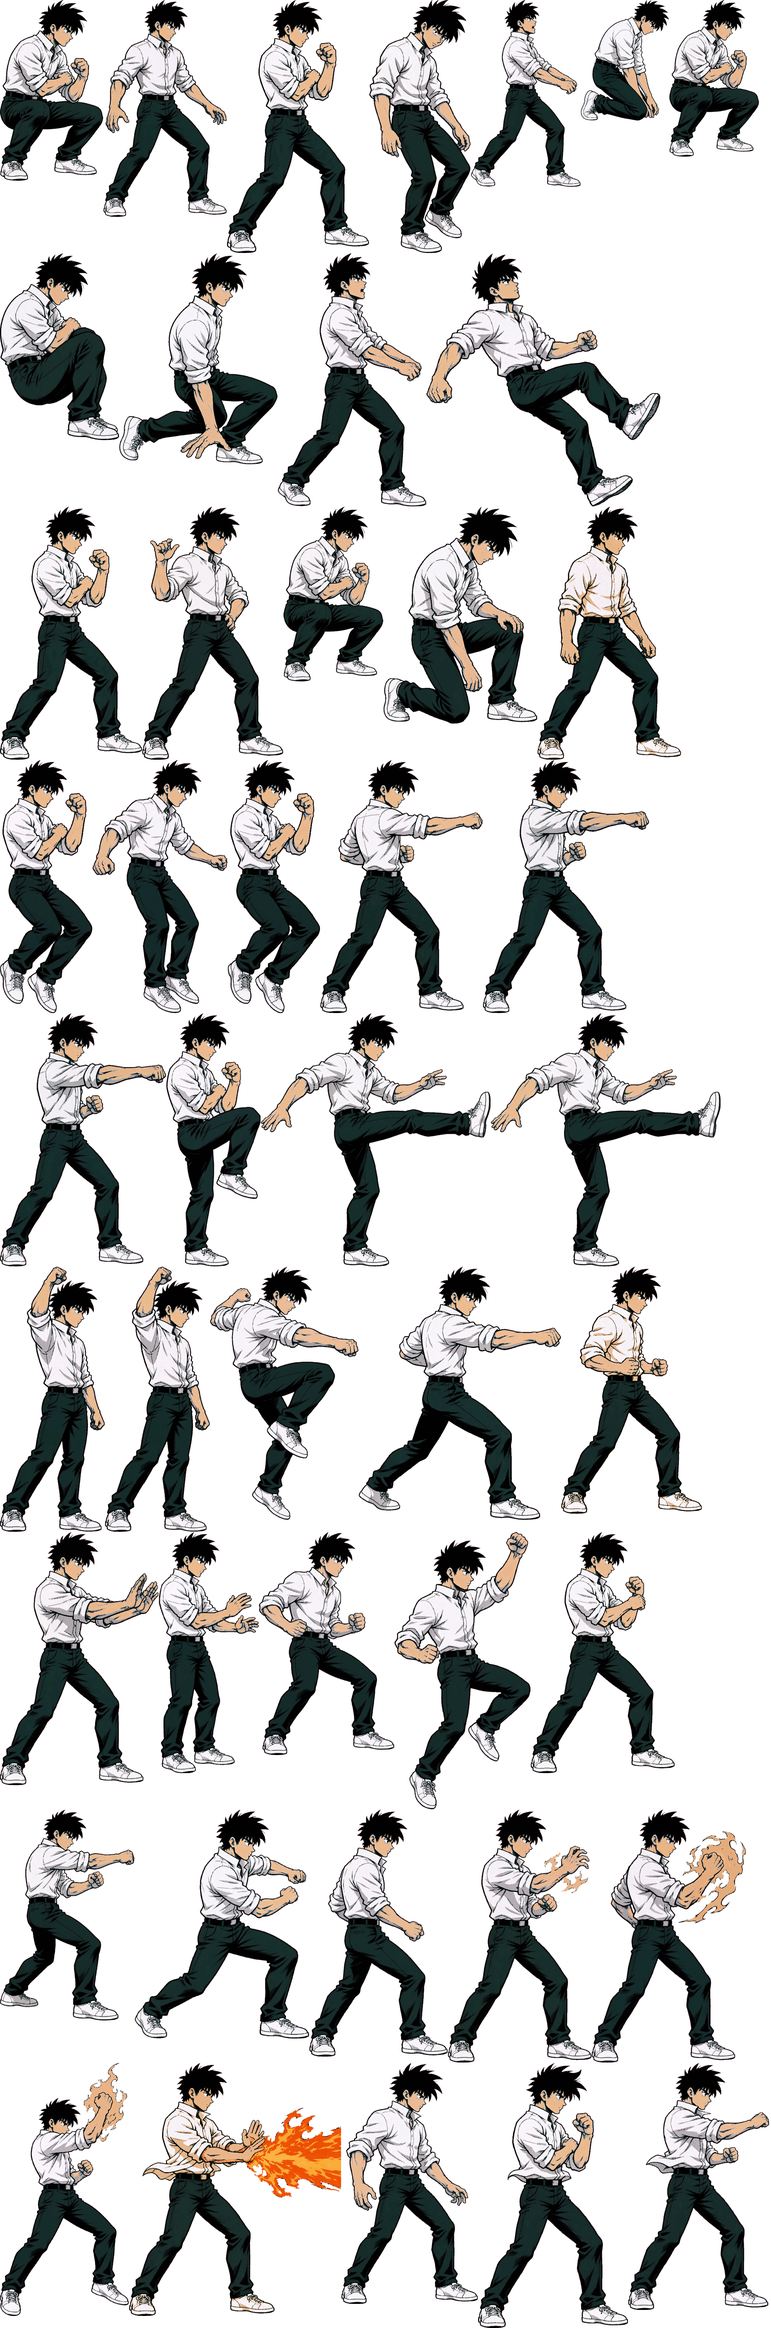
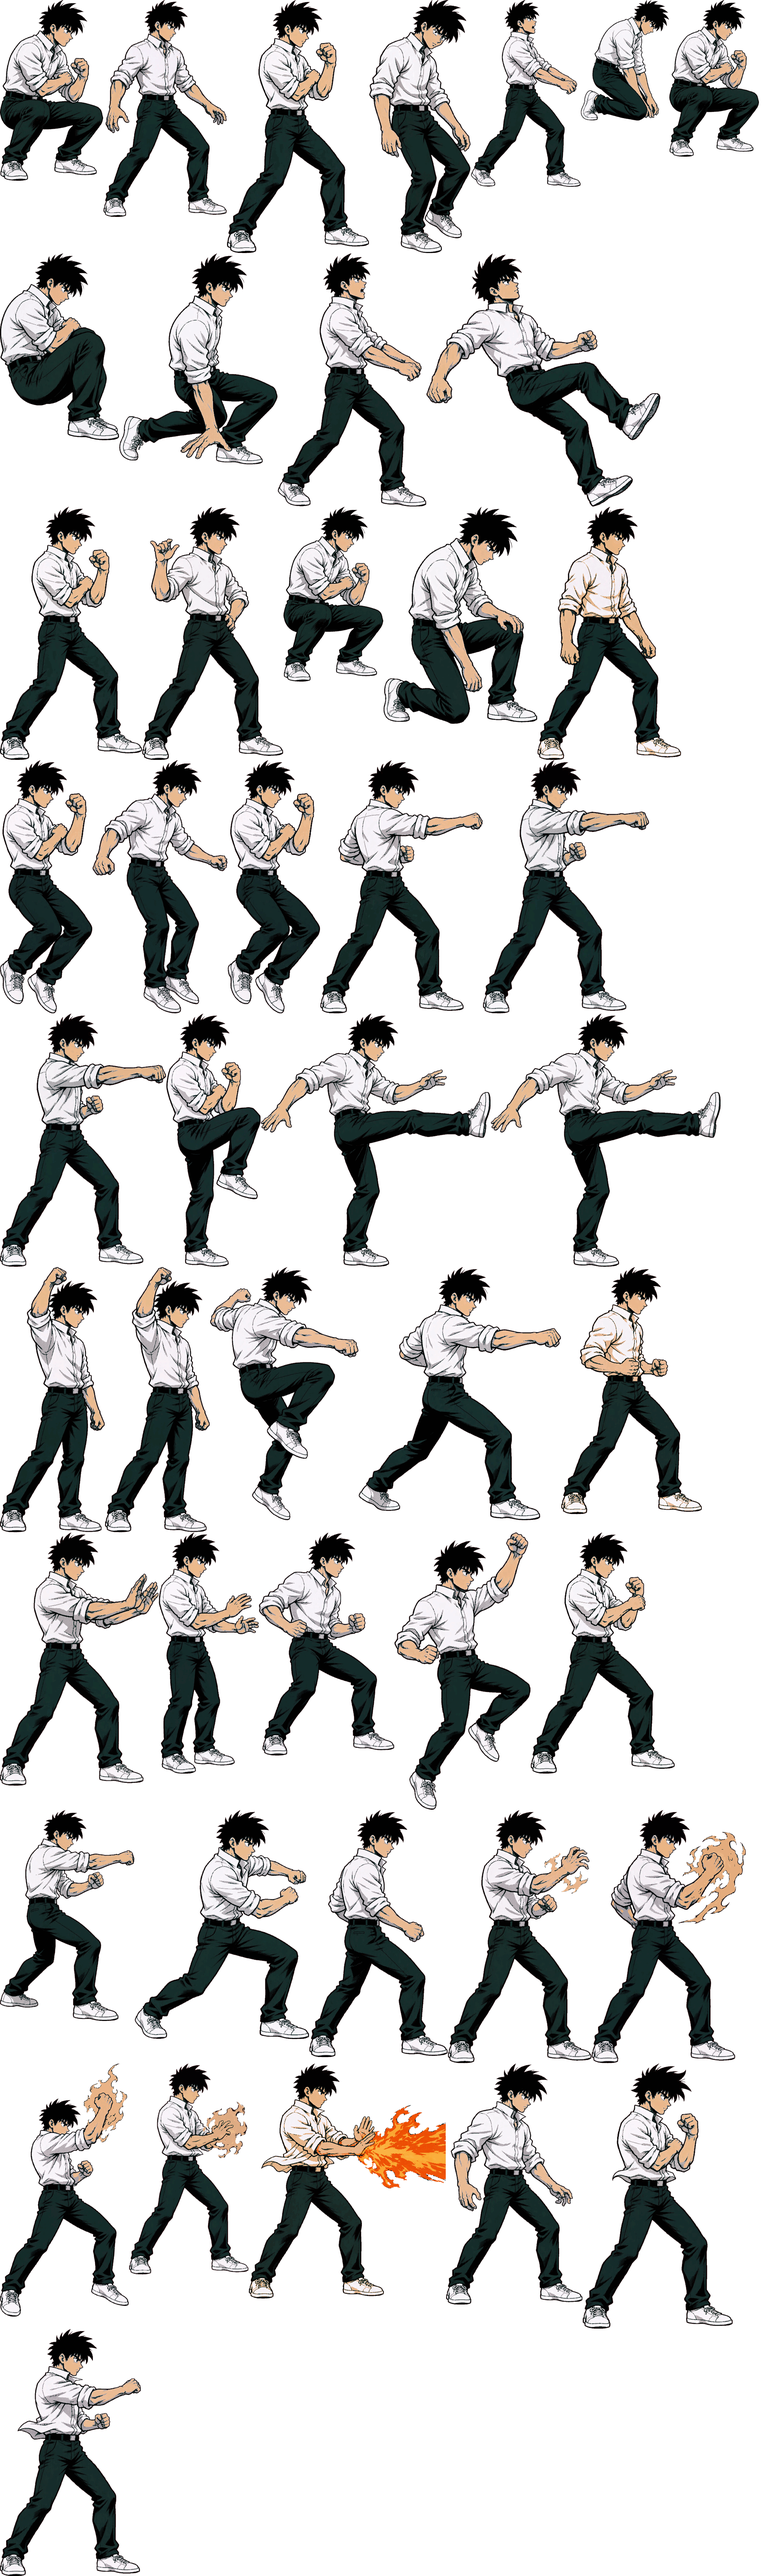
批次 20261027-0948 · [T272] 专属超必杀补起手帧（样板：草薙京）
发现的落差：docs/MOVE-PER-CHAR.md 规划写"每个必杀 3 帧"，但实际为了快速验证方向
只做了 1 帧——统计确认 107 个专属动作全部单帧。

当时做 1 帧是对的：先用 4 张图验证"AI 能不能画出角色专属招式"这个前提。
现在该补：单帧是"突然切换"，没有"从蓄力到爆发"的过程。

京的样板（/tmp/kyo-super-2f.png）对比很清楚：左图双手收腰、掌心聚着一团橙火；
右图双手推出、火柱喷出。

改了什么：
- gen-poses 加 kyosuperwindup（重心后坐、双手收腰合拢、掌心聚火）
- build-sheet 的 kysuper 改 2 帧 + HEIGHT_TARGET.kysuper = [70, 78]
  （起手压低 → 出手撑起，实测高度 560 → 624）
- poses.ts 的 kysuper 扩成 2 帧

铺开计划：剩余 106 个专属动作各补 1 张起手帧，按 4 个角色一批，约 2 小时。

怎么验证的：打包 kyo 失败=0；art:check 通过；npm run check 995 条全绿

diff --git a/src/render/poses.ts b/src/render/poses.ts
@@ -464,7 +464,12 @@ export const POSE_LIBRARY: Record<string, Pose> = {
     frameDuration: 1,
     loop: false,
     exclusive: 'kyo',
-    frames: [f({ head: p(0, -70), neck: p(0, -60), armFront: [p(16, -56), p(32, -54)], armBack: [p(8, -56), p(20, -54)] })],
+    frames: [
+      // 起手（双手收腰、火焰汇聚）
+      f({ head: p(-2, -68), neck: p(-2, -58), hip: p(-1, -37), armFront: [p(4, -50), p(6, -42)], armBack: [p(-6, -50), p(-8, -42)] }),
+      // 出手（双手推出、火柱喷出）
+      f({ head: p(0, -70), neck: p(0, -60), armFront: [p(16, -56), p(32, -54)], armBack: [p(8, -56), p(20, -54)] }),
+    ],
   },
   // 八神庵专属必杀的兜底（形状接近，紫焰由特效层负责）
   iorispecial1: {

diff --git a/.continue/doing/59bce7.md b/.continue/doing/59bce7.md
@@ -1,0 +1,16 @@
+# 队列 · 会话 59bce766a368447cf9cf15c7e36322c83
+
+> 状态：执行中
+> 创建：2026-10-27
+> 批次：20261027-0948
+
+> 本批目标：补齐「专属动作只有 1 帧」这个规划落差——先用京的超必杀做样板。
+
+- [x] [T272] 专属超必杀补起手帧（样板：草薙京）→ 对比图验证方向
+  - **发现的落差**：`docs/MOVE-PER-CHAR.md` 规划写的是"每个必杀 3 帧（起手/出手/收招）"，但实际为了快速验证方向**只做了 1 帧**；统计后确认 **107 个专属动作全部是单帧**
+  - 为什么当时做 1 帧是对的：先用 4 张图（3 分钟）验证"AI 能不能画出角色专属招式"这个前提，方向不对就别浪费 12 张
+  - 现在为什么该补：单帧的动作是"突然切换"，没有"从蓄力到爆发"的过程。京的样板（`/tmp/kyo-super-2f.png`）对比很清楚——左图双手收腰、掌心聚着一团橙火；右图双手推出、火柱喷出
+  - 做了什么：①`gen-poses.mjs` 加 `kyosuperwindup`（身体重心后坐、双手收腰合拢、掌心聚火）；②`build-sheet.mjs` 的 `kysuper` 改 2 帧 + `HEIGHT_TARGET.kysuper = [70, 78]`（起手压低 → 出手撑起，实测高度 560 → 624）；③`poses.ts` 的 `kysuper` 扩成 2 帧
+  - 验证：打包 kyo 失败=0；`art:check` 通过；`npm run check` **995 条全绿**
+  - **铺开计划**：剩余 106 个专属动作各补 1 张起手帧，按 4 个角色一批推进（约 2 小时）
+  - 批次：20261027-0948

diff --git a/.continue/TASKS.md b/.continue/TASKS.md
@@ -290,3 +290,4 @@
 - [x] T269 角色动作专属化 22/27：影二（紫黑刀气）+ 真吾（未完成招式）各 4 招
 - [x] T270 角色动作专属化 25/27：三天王（社暗紫/夏尔米洋红/克里斯青白）各 4 招
 - [x] T271 角色动作专属化 27/27 完成：Goenitz（风）+ Orochi（白光）各 4 招；全部 27 角色动作专属化收官
+- [x] T272 专属超必杀补起手帧样板（草薙京 2 帧，高度 560→624）；剩余 106 个待铺开
